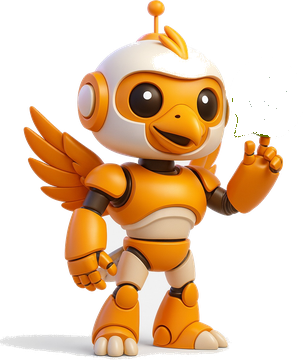
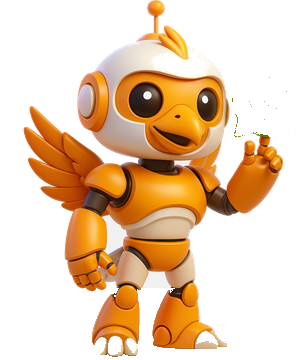
Add files via upload

diff --git a/index.html b/index.html
@@ -308,8 +308,6 @@
   #guia.mira-izq:not(.aparece):not(.desaparece) .guia-bot img{animation:idle-botR 3.4s ease-in-out infinite}
   @keyframes idle-bot{50%{transform:translateY(-7px)}}
   @keyframes idle-botR{0%,100%{transform:scaleX(-1)}50%{transform:scaleX(-1) translateY(-7px)}}
-  .guia-sombra{width:64%;height:12px;margin:2px auto 0;border-radius:50%;background:radial-gradient(ellipse,rgba(0,0,0,.5),transparent 70%);animation:sombra 3.4s ease-in-out infinite}
-  @keyframes sombra{50%{transform:scaleX(.78);opacity:.6}}
   /* --- materialización tipo sistema: glitch + escaneo + aberración cromática --- */
   #guia.aparece .guia-bot img{animation:materializa .95s steps(1,end) forwards}
   #guia.mira-izq.aparece .guia-bot img{animation:materializaR .95s steps(1,end) forwards}
@@ -357,7 +355,6 @@
     box-shadow:0 0 12px rgba(0,255,240,.6);opacity:0;pointer-events:none}
   #guia.aparece .guia-bot::after{animation:escaneo .95s linear forwards}
   @keyframes escaneo{0%{opacity:1;top:0}85%{opacity:1;top:96%}100%{opacity:0;top:100%}}
-  #guia.aparece .guia-sombra,#guia.desaparece .guia-sombra{opacity:0}
 
   .guia-burbuja{position:absolute;width:264px;background:rgba(17,19,25,.94);border:1px solid rgba(242,118,30,.45);border-radius:18px;padding:16px 16px 14px;
     backdrop-filter:blur(14px);box-shadow:0 18px 44px rgba(0,0,0,.55),0 0 22px rgba(255,138,43,.12);
@@ -731,7 +728,6 @@
   </div>
   <div class="guia-bot" id="guia-bot" title="Toca para ver otro consejo">
     <img src="./assets/img/mascota-bot.webp" alt="Mascota Bot Águila" width="303" height="360" fetchpriority="low">
-    <div class="guia-sombra"></div>
   </div>
 </div>
 <button class="guia-reabrir" id="guia-reabrir" aria-label="Mostrar guía Águila"><img src="./assets/img/mascota-bot.webp" alt="">Guía Águila</button>

diff --git a/README.md b/README.md
@@ -12,6 +12,7 @@ Esta es una **vista previa (v2)** para validación del cliente. Sitio estático,
 
 - La mascota del Bot ya **no trae el globo de WhatsApp en la mano** (imagen editada, `assets/img/mascota-bot.webp` y `mascota-bot-sinwa.png`).
 - La **Guía Águila ya no se desplaza** entre esquinas: se **desmaterializa y rematerializa** con una animación tipo sistema (glitch por franjas, aberración cromática cian/magenta y línea de escaneo).
+- Sin sombra de piso bajo la guía (diseño más limpio).
 - La guía **voltea hacia el centro** de la página según la esquina donde aparece y es **15% más pequeña** (100px / 73px móvil).
 - La mascota de la tarjeta "Bot Águila 24/7" ahora es más pequeña (132px) y ya no invade el texto del bloque.
 - Se eliminó el bloque **Meta 2030**.